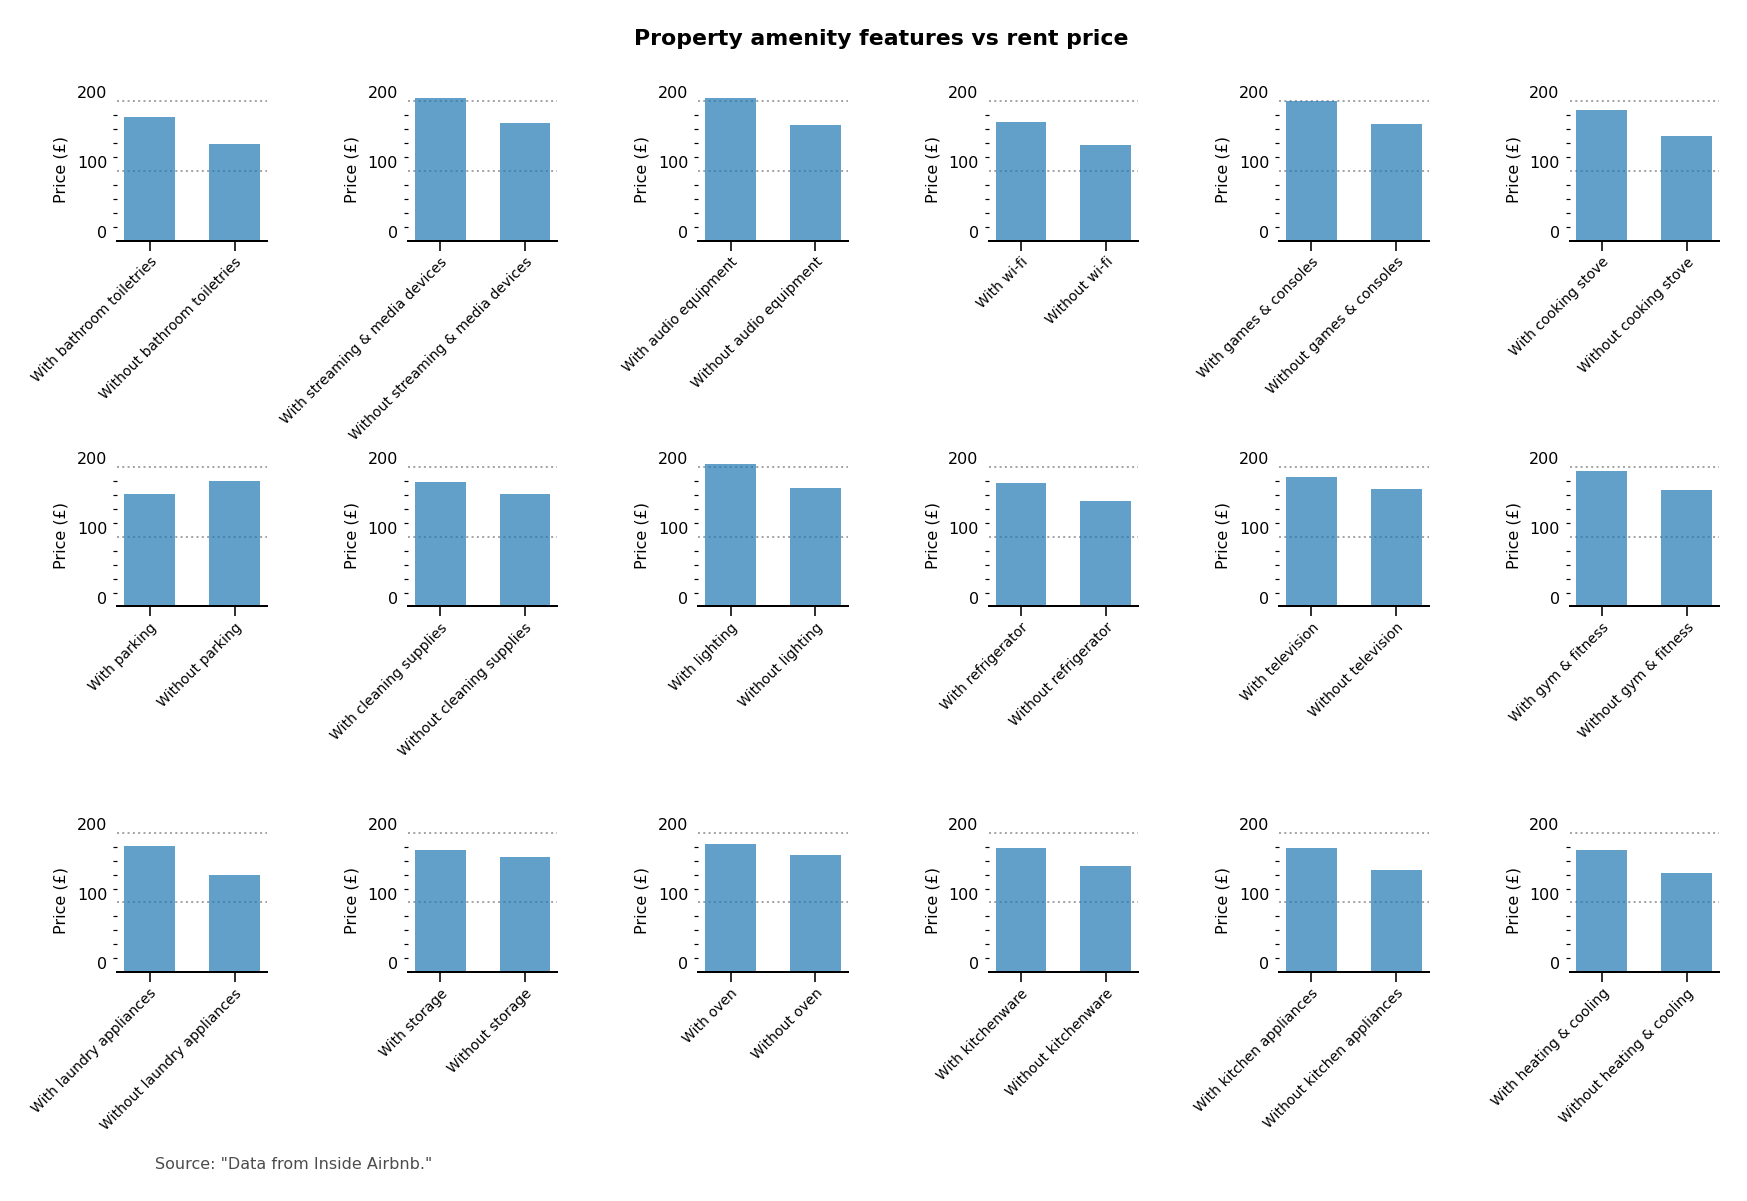
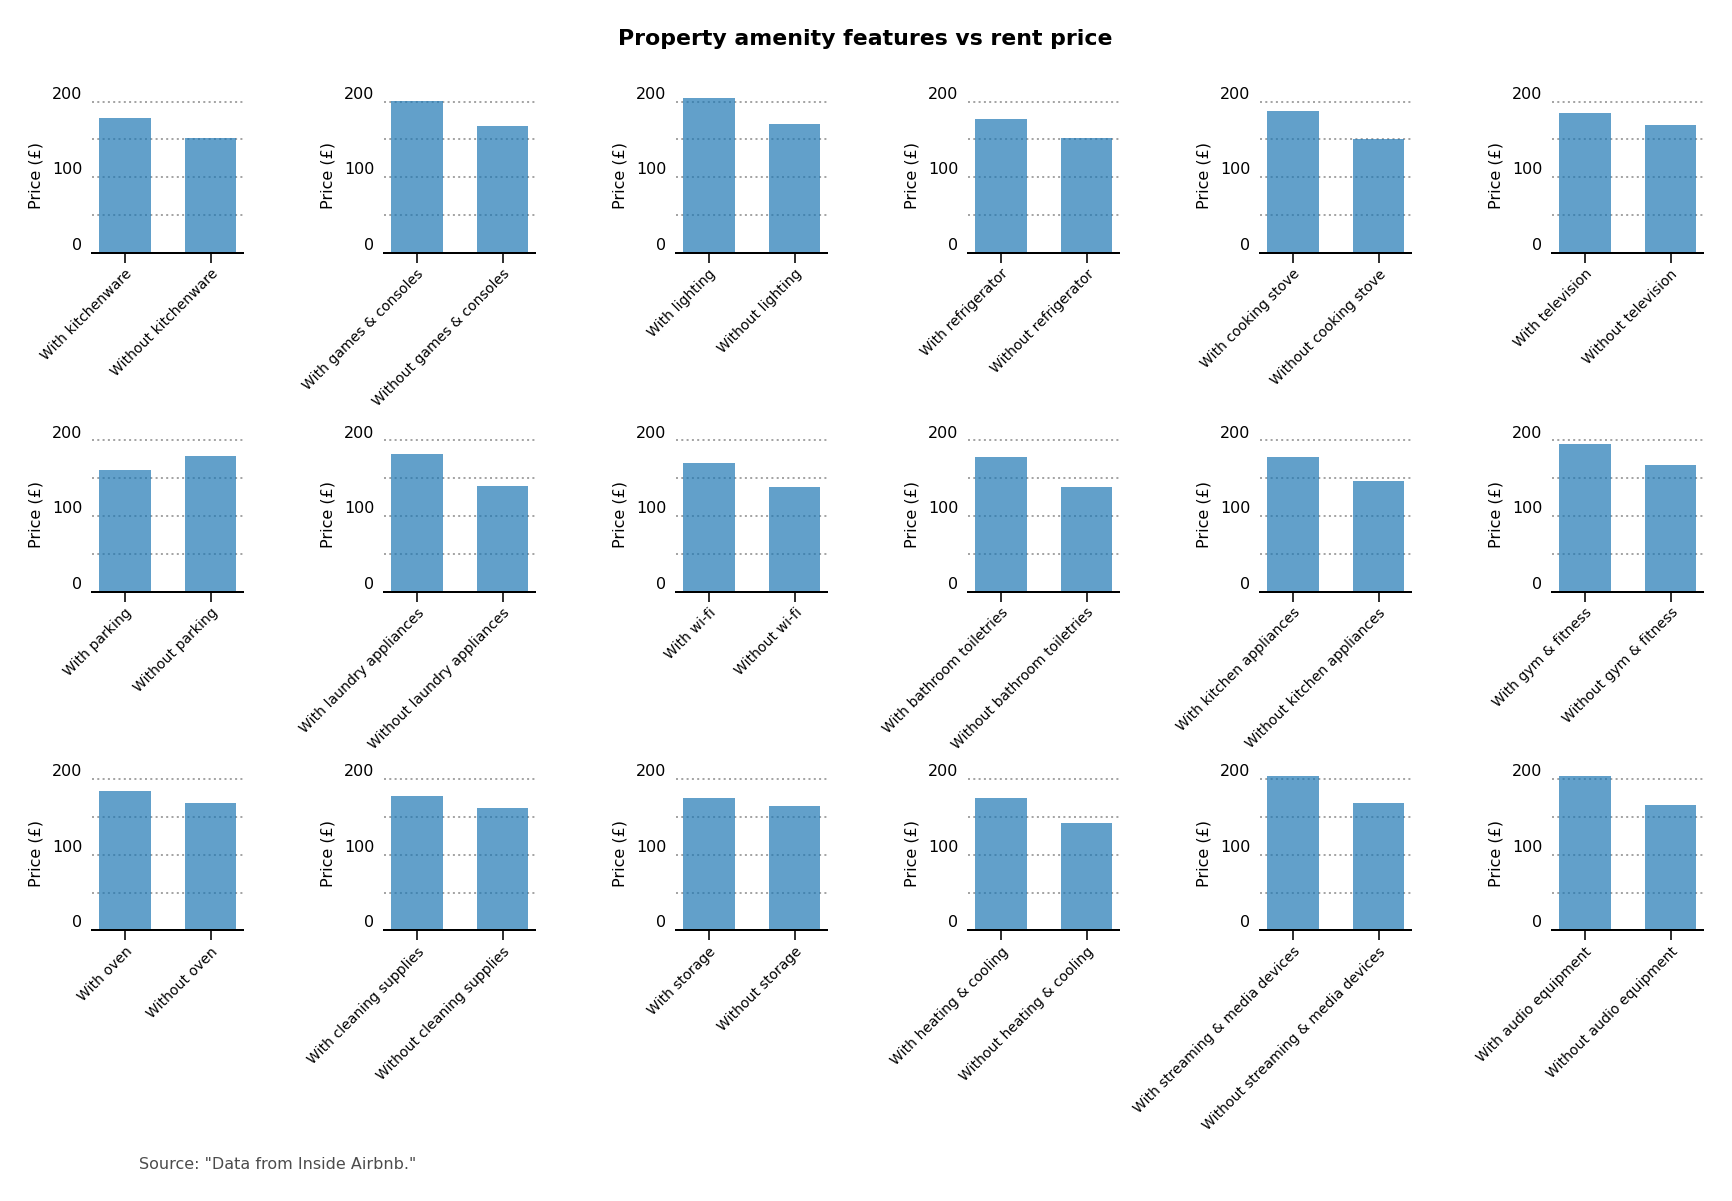
Added two y-axis minor grid lines
Use 'from matplotlib.ticker import AutoMinorLocator', 'ax.yaxis.set_minor_locator(AutoMinorLocator(2))' and 'ax.grid(which='minor', axis='y', linestyle=':')'

diff --git a/category_plots.py b/category_plots.py
@@ -51,9 +51,9 @@ for category, ax in zip(categories, axes.flatten()):
     ax.set_ylabel('Price (£)', fontsize=8)
     plt.setp(ax.get_yticklabels(), fontsize=8)
     ax.tick_params(axis='y', which='major', pad=5)
+    ax.yaxis.set_minor_locator(AutoMinorLocator(2))
+    ax.grid(axis='y', which='minor', linestyle=':')
     ax.set_ylim([0, 205])
-    ax.yaxis.set_minor_locator(AutoMinorLocator())
-    ax.tick_params(which='minor', length=2, color='k')
     plt.setp(
         ax.get_xticklabels(), ha='right',
         rotation_mode='anchor', rotation=45,
